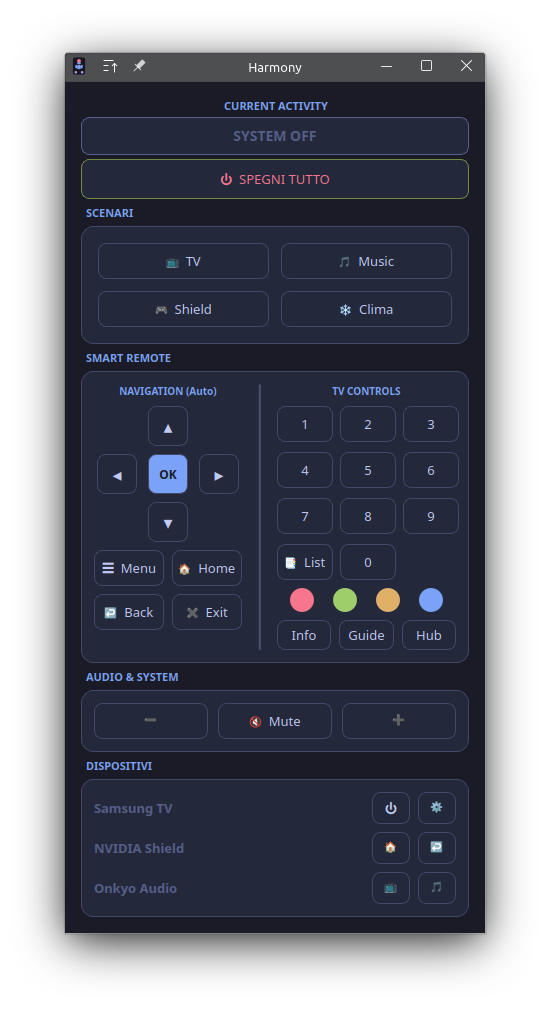
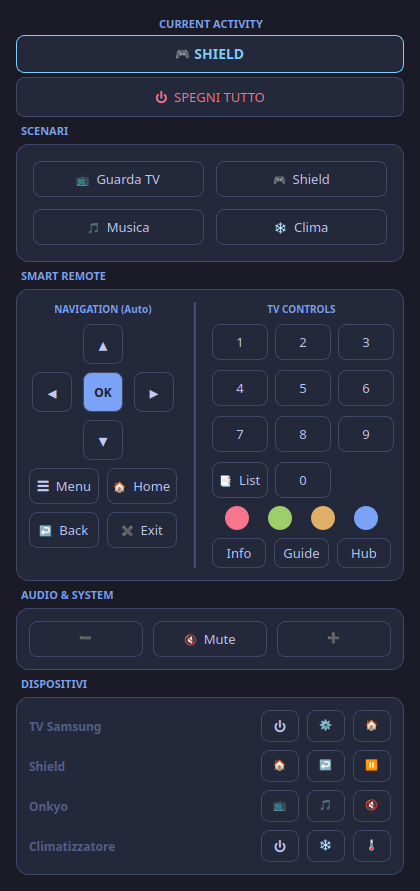
docs: rewrite README for end users, refresh screenshot
Claude-Session: https://claude.ai/code/session_01Tb5LQnEtAPKkDHgPRrvs9R

diff --git a/README.md b/README.md
@@ -1,223 +1,122 @@
-# 🌃 Harmony Hub Controller - Tokyo Night Edition
+# Harmony Hub Controller
 
-A high-performance hybrid controller (CLI + GUI) for Logitech Harmony Hub devices featuring async WebSocket communication and a modern Qt6 interface.
+Local CLI and desktop remote for the Logitech Harmony Hub. No cloud, no polling: it talks to the Hub over its LAN WebSocket API the same way the official mobile app does.
 
-## ✨ Features
+![Python 3.10+](https://img.shields.io/badge/python-3.10%2B-blue)
+![PyQt6](https://img.shields.io/badge/GUI-PyQt6-41cd52)
+![Linux](https://img.shields.io/badge/platform-Linux-lightgrey)
+![License GPL-2.0](https://img.shields.io/badge/license-GPL--2.0-orange)
 
-- **🎯 Dual Interface**: Both command-line and graphical user interface
-- **⚡ Async Performance**: WebSocket-based communication optimized for speed  
-- **🌃 Modern UI**: Tokyo Night themed Qt6 interface
-- **🧠 Smart Commands**: Context-aware device control based on active activities
-- **🐧 Linux Desktop Integration**: Menu shortcuts, aliases, and desktop file support
-- **🔍 Auto-Discovery**: Automatically discover and configure your Harmony Hub
+<p align="center">
+  <img src="screenshot.png" width="380" alt="Harmony Hub Controller GUI">
+</p>
 
-## 🚀 Getting Started
+## Features
 
-**New users start here!** This guide will get you up and running in 3 simple steps.
+- **Instant state** – the Hub pushes every change (also from the physical remote); the GUI reflects it in real time, including "starting…" and "stopping…" transitions.
+- **Fast commands** – device keys are sent as press/release like a real remote (~20 ms), activities wait for the Hub's real completion event.
+- **Push-and-hold** – keep volume, D-pad, Back and Exit pressed to repeat, exactly like on the remote.
+- **Smart remote** – navigation keys follow the running activity (TV, media player, receiver).
+- **Auto-discovery** – finds the Hub on the LAN and generates the configuration from it.
+- **CLI + GUI** – script it from the shell or use the Qt6 desktop app, with KDE menu entry and shell aliases.
 
-### Step 1: Install Dependencies
+Works with any hub-based Harmony (Elite, Companion, Smart Control, Ultimate Home/Pro, standalone Hub). Logitech has discontinued the cloud services, but the local API keeps working.
+
+## Installation
+
+Requires Python 3.10+ on Linux.
 
 ```bash
-# Clone the repository
 git clone https://github.com/rylos/harmony.git
 cd harmony
-
-# Create virtual environment
 python3 -m venv harmony_env
 source harmony_env/bin/activate
-
-# Install requirements
 pip install -r requirements.txt
 ```
 
-### Step 2: Create Your Configuration (IMPORTANT!)
+## Configuration
 
-**You MUST create a `config.py` file before using the application.** Use the built-in discovery system:
+1. Find your Hub (works without any configuration):
+
+   ```bash
+   ./harmony.py find-hub
+   # ✅ Sala  ip=192.168.1.101  remoteId=8084741  fw=4.15.600 ...
+   ```
+
+2. Create `config.py` from the template and set `HUB_IP` and `REMOTE_ID`:
+
+   ```bash
+   cp config.sample.py config.py
+   ```
+
+3. Let the Hub fill in activities, devices and commands:
+
+   ```bash
+   ./harmony.py discover        # review what the Hub reports
+   ./harmony.py export-config   # rewrite config.py with your activities and devices
+   ```
+
+`config.py` is git-ignored. Edit the aliases in it to taste (`tv`, `shield`, `onkyo`…): they become the CLI commands and GUI buttons.
+
+## Usage
+
+### GUI
 
 ```bash
-# Discover your Harmony Hub automatically
-python harmony.py discover
-
-# This will show you all available activities and devices
-# Then export the configuration to config.py
-python harmony.py export-config
-```
-
-**What this does:**
-- Scans your network for Harmony Hubs
-- Shows all your activities (Watch TV, Listen to Music, etc.)
-- Shows all your devices (TV, Receiver, etc.) and their commands
-- Creates a `config.py` file with your specific setup
-
-### Step 3: Start Using It!
-
-```bash
-# Launch the GUI (recommended for beginners)
 ./start_harmony_gui.sh
-
-# Or use CLI commands directly
-./harmony.py status                  # Check current status
-./harmony.py <activity_name>         # Start an activity
-./harmony.py <device> <command>      # Send device command
 ```
 
-## 🎮 Usage Examples
+Optional: `./install_to_menu.sh` adds a KDE/XDG menu entry, `./setup_aliases.sh` creates shell aliases.
 
-### Activities
+### CLI
 
-```bash
-./harmony.py guarda_tv        # Start "Watch TV" activity
-./harmony.py shield           # Start "Shield" activity  
-./harmony.py ascolta_musica   # Start "Listen to Music" activity
-./harmony.py off              # Power off everything
-```
+| Command | What it does |
+|---|---|
+| `./harmony.py status` | Current activity (⚫ OFF / 🟢 Shield / ⏳ Starting: TV) |
+| `./harmony.py tv` | Start the activity aliased `tv` and wait for the Hub to finish (`--no-wait` to return at once) |
+| `./harmony.py off` | Power everything off |
+| `./harmony.py onkyo VolumeUp` | Send a device command (`<device alias> <command>`) |
+| `./harmony.py onkyo VolumeUp --hold 2` | Keep a key pressed for 2 s |
+| `./harmony.py vol+` / `vol-` / `mute` | Quick audio commands |
+| `./harmony.py sleep 30` / `sleep off` | Sleep timer |
+| `./harmony.py channel 5` | Change channel in the current activity |
+| `./harmony.py list` | All configured activities, devices and commands |
 
-### Device Commands
+Diagnostics:
 
-```bash
-./harmony.py tv_samsung PowerOn
-./harmony.py onkyo_av_receiver VolumeUp
-./harmony.py nvidia_game_console Home
-```
+| Command | What it does |
+|---|---|
+| `./harmony.py find-hub` | Discover Hubs on the LAN |
+| `./harmony.py ping` | Reachability check |
+| `./harmony.py digest` | Raw Hub state (JSON) |
+| `./harmony.py events` | Print push events live (`--timeout 60`) |
+| `./harmony.py sysinfo` | Firmware, account and discovery info |
+| `./harmony.py show-hub` / `show-activity <id>` / `show-device <id>` | Details from the Hub configuration |
+| `./harmony.py benchmark` | Round-trip timings |
 
-### Quick Audio Controls
+Add `-v` for verbose output.
 
-```bash
-./harmony.py vol+             # Volume up
-./harmony.py vol-             # Volume down
-./harmony.py mute             # Mute/unmute
-```
+## How it works
 
-## 🔧 Discovery & Configuration Commands
+The Hub exposes a JSON-over-WebSocket API on port 8088. The client was modelled on the transport of the official Android app:
 
-Need to reconfigure or explore your setup? Use these commands:
+- one reader task: replies carry an `id`, push events don't;
+- state comes from `connect.statedigest?get` and `connect.stateDigest?notify` events, not from polling;
+- key presses are `holdAction` press/hold/release messages sharing one id and a connection-relative timestamp;
+- keepalive with a WebSocket PING every 45 s, automatic reconnection.
 
-```bash
-python harmony.py discover                    # Show complete hub overview
-python harmony.py show-activity <name>        # Show activity details
-python harmony.py show-device <name>          # Show device details  
-python harmony.py show-hub                    # Show hub information
-python harmony.py export-config               # Generate config.py file
-```
+Full protocol notes, including what was verified on real hardware, are in [`HARMONY_APK_PROTOCOL_ANALYSIS.md`](HARMONY_APK_PROTOCOL_ANALYSIS.md).
 
-## 🖥 Desktop Integration
+## Troubleshooting
 
-```bash
-# Add to KDE menu
-./install_to_menu.sh
+**`config.py` not found** – run `./harmony.py find-hub`, copy `config.sample.py` to `config.py`, then `export-config`.
 
-# Setup CLI aliases
-./setup_aliases.sh
-```
+**`find-hub` finds nothing** – the PC must be on the same LAN as the Hub (no VLAN/guest network), UDP broadcast to port 5224 and an incoming TCP connection on port 5446 must be allowed by the firewall. As a fallback, read the Hub IP from your router and put it in `config.py` by hand.
 
-## 📁 Project Structure
+**"Hub non raggiungibile" in the GUI** – the app retries every 5 s. Check `./harmony.py ping`; a Hub on 2.4 GHz Wi-Fi with heavy packet loss shows exactly this symptom.
 
-```text
-harmony/
-├── harmony.py                    # Core CLI backend
-├── harmony_gui.py                # Qt6 GUI frontend
-├── state_manager.py              # State management system
-├── config_models.py              # Configuration data models
-├── config_exporter.py            # Configuration export functionality
-├── discovery_handlers.py         # Discovery command handlers
-├── hub_discovery.py              # LAN discovery (UDP 5224 / TCP 5446), no config needed
-├── display_formatter.py          # Output formatting
-├── config.py                     # Your hub configuration (auto-generated)
-├── config.sample.py              # Configuration template
-├── start_harmony_gui.sh          # GUI launcher
-├── install_to_menu.sh            # Desktop integration
-├── setup_aliases.sh              # CLI aliases setup
-├── harmony-hub-controller.desktop # Desktop entry
-├── requirements.txt              # Python dependencies
-└── harmony_env/                  # Python virtual environment
-```
+**Command has no effect but no error** – the Hub does not acknowledge valid IR commands. Verify the command name with `./harmony.py show-device <id>`; unknown names are reported (`Command not found`).
 
-## 🎯 Compatible Hardware
+## License
 
-- Harmony Elite, Companion, Smart Control
-- Harmony Ultimate Home, Pro  
-- Standalone Harmony Hub
-
-## ⚡ Performance Features
-
-The WebSocket client mirrors the transport of the official Logitech Android app
-(see `HARMONY_APK_PROTOCOL_ANALYSIS.md`):
-
-- **Push events instead of polling**: the Hub sends `connect.stateDigest?notify` on every
-  state change (also from the physical remote). The GUI updates instantly; the 60s timer is
-  only a fallback.
-- **Single reader task**: responses (with `id`) resolve futures, events (without `id`) go to
-  a callback. Nothing is dropped.
-- **Press/Release like the app**: both fire-and-forget, same message id, timestamp relative to
-  the connection. A device command takes ~20ms (+100ms grace to catch Hub errors such as
-  `565 Device not found` / `566 Command not found`). `--hold SEC` keeps a key pressed.
-- **Activity start waits for the real completion event** (`startActivityFinished` / state
-  digest `activityStatus=2`), no blind timeout. Use `--no-wait` to return immediately.
-- **Keepalive**: WebSocket PING every 45s (same as the app); automatic reconnection in the GUI.
-- **Hub error codes handled**: `510` (hub booting → retry), `5504` (hub-side timeout),
-  `100`/`200.2` (in progress/async accepted).
-
-### Status & diagnostics
-
-```bash
-./harmony.py status          # state digest: ⚫ OFF / 🟢 Activity / ⏳ Starting: …
-./harmony.py digest          # raw state digest JSON
-./harmony.py events          # print push events live (--timeout 30)
-./harmony.py sysinfo         # systeminfo + discoveryinfo + provisioninfo
-./harmony.py ping            # HTTP reachability check
-./harmony.py find-hub        # UDP discovery, works without config.py
-./harmony.py sleep 30        # sleep timer 30 min (sleep off to cancel)
-./harmony.py channel 5       # change channel in the current activity
-```
-
-## 🛠 Tech Stack
-
-- **Python 3** - Main programming language
-- **PyQt6** - GUI framework with modern Qt6 interface
-- **aiohttp** - Async HTTP client for WebSocket communication
-- **asyncio** - Asynchronous programming support
-
-## 🆘 Troubleshooting
-
-### "No config.py found" Error
-
-This is the most common issue for new users. You need to create the configuration file:
-
-```bash
-# Make sure your Harmony Hub is on and connected to your network
-python harmony.py discover
-python harmony.py export-config
-```
-
-### Hub Not Found During Discovery
-
-- Ensure your Harmony Hub is powered on and connected to the same network
-- Check that your computer can reach the hub's IP address
-- Try running discovery multiple times (sometimes takes a moment)
-
-### GUI Won't Start
-
-```bash
-# Check if PyQt6 is properly installed
-pip install --upgrade PyQt6
-
-# Try launching directly
-python harmony_gui.py
-```
-
-### Permission Issues with Scripts
-
-```bash
-# Make scripts executable
-chmod +x start_harmony_gui.sh
-chmod +x install_to_menu.sh
-chmod +x setup_aliases.sh
-```
-
-## 📄 License
-
-See LICENSE file for details.
-
----
-
-Built with ❤ for the Logitech Harmony Hub community
+GPL-2.0. See [LICENSE](LICENSE).
